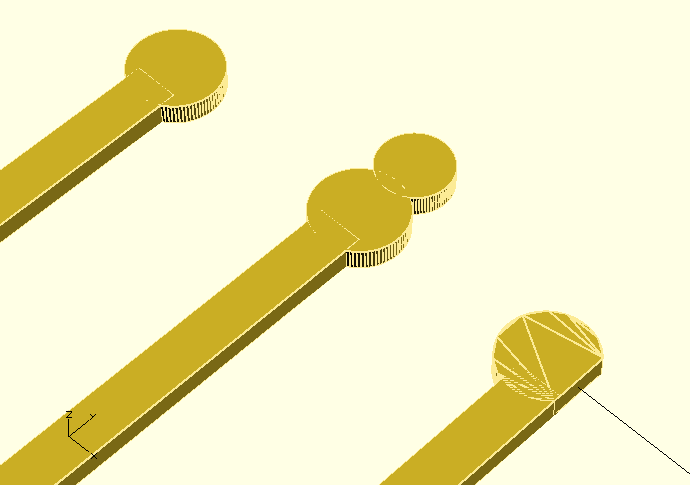
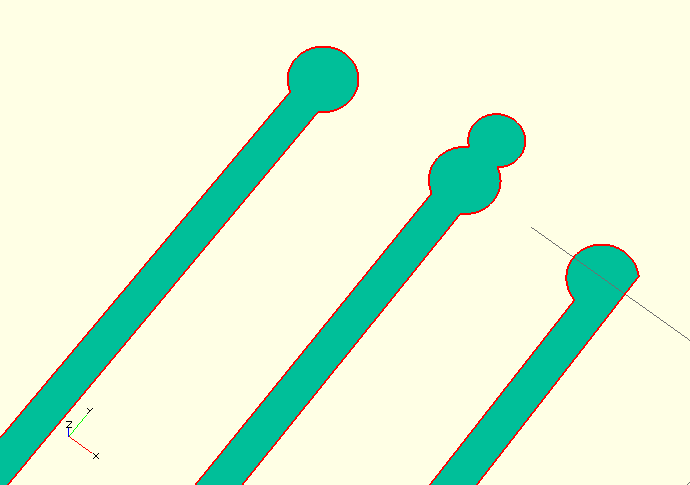
Renamed bow to bows, update screenshots

diff --git a/Readme.rst b/Readme.rst
@@ -1,7 +1,7 @@
 Lockpickr
 =========
 
-In near future I will (hopefully) gain access to a full fledged laser-cutter...
+In near future I will gain access to a full fledged laser-cutter...
 
 So I decided to make myself a pickset!
 
@@ -9,12 +9,14 @@ So I decided to make myself a pickset!
 
 :warning: Do **not** pick locks you do not own or don't have permission to do so! Anything else is burglary or malicious injury of property! *No exceptions*!
 
-This is still work in progress, I will still have to figure out the correct sizes and values, and find the best working metal.
+This is still work in progress, I will still have to figure out the correct sizes and values, and find the best working metal. Recommendations are highly welcome!
 
 Previews
 --------
 
 Here are some quick-and-dirty screenshots just to give you a quick hint how this looks like..
+
+.. note:: These screenshots do not really represent reality, I will not refresh them every time I update the code.
 
 - Circles
 
@@ -24,4 +26,7 @@ Here are some quick-and-dirty screenshots just to give you a quick hint how this
 
 .. image:: triangles_demo.png
 
-.. note:: These screenshots do not really represent reality, I will not refresh them every time I update the code.
+- Bows
+
+.. image:: bows_demo.png
+
